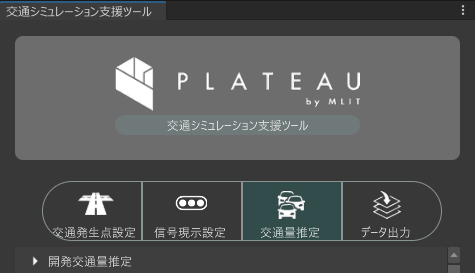
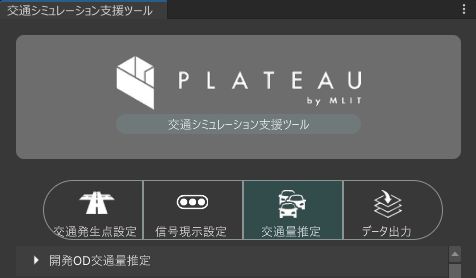
Fix inconsistent naming and typos in documentation

diff --git a/README.md b/README.md
@@ -9,8 +9,8 @@
 
 
 ## 2. 「交通シミュレーション支援ツール」について
-「交通シミュレーション支援ツール」では、3D都市モデルを用いた道路ネットワーク生成機能、交通発生点の設定機能、OD交通量（Origin-Destination）の推定機能、開発交通量の推定機能などを備え、これらを統合してシミュレーションデータを生成するUIと、シミュレーション結果を3Dで可視化する表示機能を組み合わせて提供します。
-本プロジェクトではデータの自動化とシミュレーションとの連携を推進することで、交通分野におけるデジタルツイン技術の普及と、社会的意思決定の高度化に貢献することを目指しています。
+「交通シミュレーション支援ツール」では、3D都市モデルを用いた道路ネットワーク生成機能、交通発生点の設定機能、OD交通量（Origin-Destination）の推定機能などを備え、これらを統合したシミュレーションデータを生成するUIと、シミュレーション結果を3Dで可視化する表示機能を組み合わせて提供します。
+本プロジェクトではデータ生成の自動化とシミュレーションとの連携を推進することで、交通分野におけるデジタルツイン技術の普及と、社会的意思決定の高度化に貢献することを目指しています。
 本システムの詳細については[技術検証レポート](https://www.mlit.go.jp/plateau/file/libraries/doc/plateau_tech_doc_0096_ver01.pdf)を参照してください。
 
 ## 3. 利用手順
@@ -25,7 +25,7 @@
    - 建物情報を基にした交通発生・集中量の推定
 
 1. **OD交通量の推定**
-   - 既存交通量および開発交通量の算出
+   - 既存OD交通量および開発OD交通量の算出
    - 実測データやオープンデータを活用した交通流の補正
 
 1. **データ出力・管理**

diff --git a/Documentation~/index.md b/Documentation~/index.md
@@ -5,9 +5,9 @@
 交通シミュレーション支援ツールは、3D都市モデルおよび交通関連の各種オープンデータを活用し、
 大規模商業施設の開発などによって生じる周辺道路への交通影響を、簡易かつ効率的に設定・予測・可視化するためのソフトウェアです。
 
-具体的には、3D都市モデルを用いた道路ネットワーク生成機能、交通発生点の設定機能、OD交通量（Origin-Destination）の推定機能、開発交通量の推定機能などを備え、これらを統合してシミュレーションデータを生成するUIと、シミュレーション結果を3Dで可視化する表示機能を組み合わせて提供します。
+具体的には、3D都市モデルを用いた道路ネットワーク生成機能、交通発生点の設定機能、OD交通量（Origin-Destination）の推定機能などを備え、これらを統合したシミュレーションデータを生成するUIと、シミュレーション結果を3Dで可視化する表示機能を組み合わせて提供します。
 
-本プロジェクトではデータの自動化とシミュレーションとの連携を推進することで、交通分野におけるデジタルツイン技術の普及と、社会的意思決定の高度化に貢献することを目指しています。
+本プロジェクトではデータ生成の自動化とシミュレーションとの連携を推進することで、交通分野におけるデジタルツイン技術の普及と、社会的意思決定の高度化に貢献することを目指しています。
 
 ## ソースコード / ダウンロード
 - ソースコード: [GitHub (Project-PLATEAU/Data-Preparation-Tool-for-TrafficSim)](https://github.com/Project-PLATEAU/Data-Preparation-Tool-for-TrafficSim)

diff --git a/Documentation~/manual/DevelopEstimation.md b/Documentation~/manual/DevelopEstimation.md
@@ -1,8 +1,8 @@
-# 開発交通量推定
+# 開発OD交通量推定
 
 本機能は、開発エリアおよび開発条件を指定し、開発エリアに係る発生集中量を推定し、開発OD交通量ファイルを出力する機能です。
 
-![開発交通量推定](../resources/DevelopEstimation/MenuTab.png)
+![開発OD交通量推定](../resources/DevelopEstimation/MenuTab.png)
 
 ## 事前準備
 
@@ -38,7 +38,7 @@
 
   指定したフォルダが開発OD交通量の出力先にもなります。
   
-  ![開発交通量推定](../resources/DevelopEstimation/EstimationOD.png)
+  ![開発OD交通量推定](../resources/DevelopEstimation/EstimationOD.png)
 
 ### 開発条件の設定
 
@@ -50,7 +50,7 @@
   - 地域区分
   - 滞在時間
 
-  ![開発交通量推定](../resources/DevelopEstimation/EstimationConditions.png)
+  ![開発OD交通量推定](../resources/DevelopEstimation/EstimationConditions.png)
 
 ### 時間帯別交通量設定
 
@@ -64,7 +64,7 @@
   - 標準偏差
   - ピーク率
 
-  ![開発交通量推定](../resources/DevelopEstimation/TrafficSimple.png)
+  ![開発OD交通量推定](../resources/DevelopEstimation/TrafficSimple.png)
 
 - 詳細
   
@@ -72,7 +72,7 @@
 
   スライドバーを操作または数値を入力します。
 
-  ![開発交通量推定](../resources/DevelopEstimation/TrafficDetail.png)
+  ![開発OD交通量推定](../resources/DevelopEstimation/TrafficDetail.png)
 
 
 ### 実行

diff --git a/Documentation~/manual/Setup.md b/Documentation~/manual/Setup.md
@@ -23,7 +23,7 @@ Unity Hub を起動します。
 新しいプロジェクトの設定画面で、次のように設定します。
 - 画面上部の `エディターバージョン` を `2022.3` で始まる番号にします。
 - 画面中部の `テンプレート` は `High Definitaion 3D` を選択します。
-- 画面右下のプロジェクト名を任意の名前にに設定します。
+- 画面右下のプロジェクト名を任意の名前に設定します。
 - `プロジェクトを作成` ボタンを押します。
 
 ![Unityプロジェクトを作成](../resources/Setup/createProject.png)
